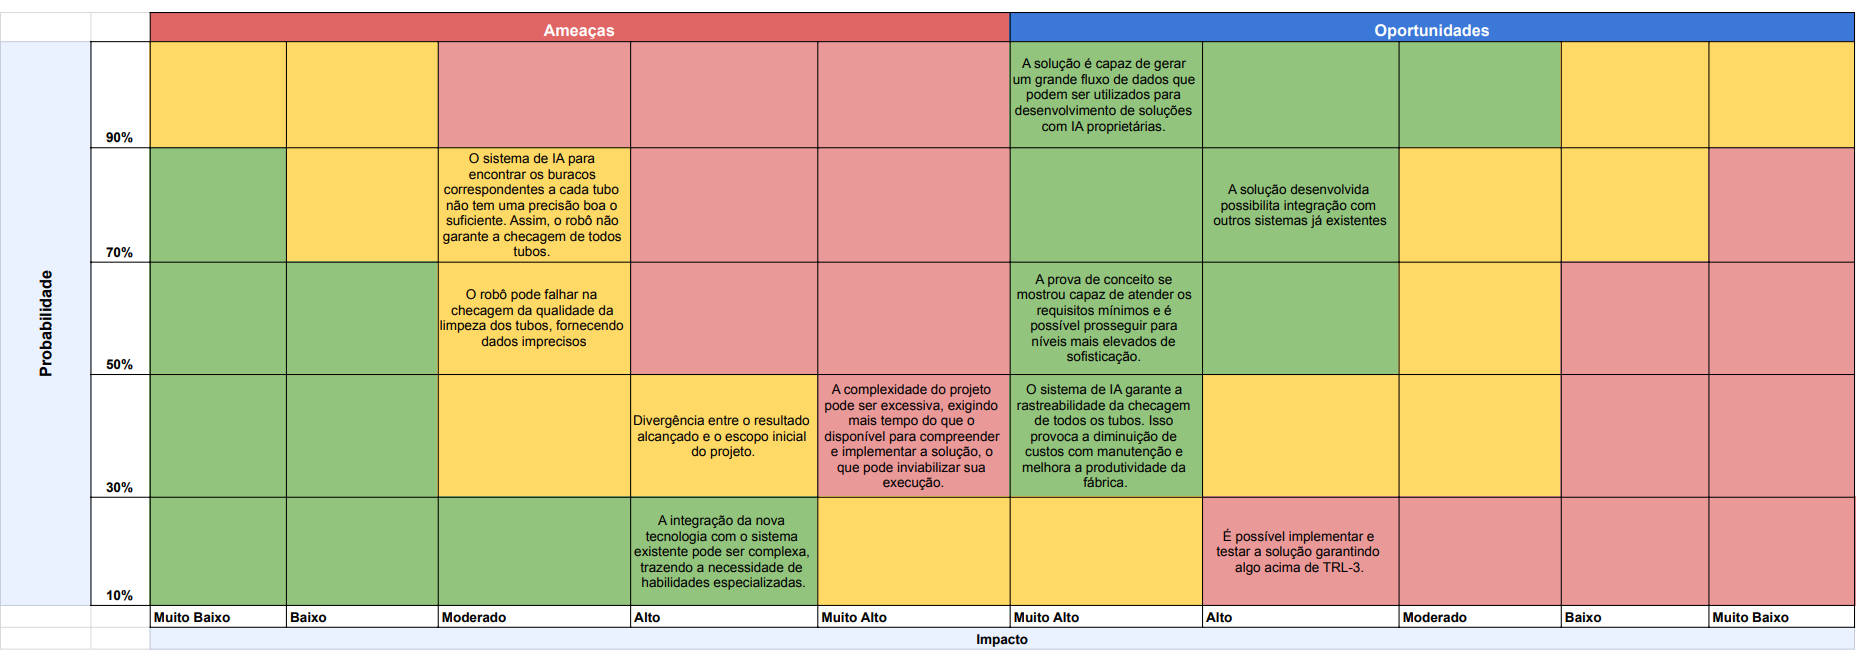
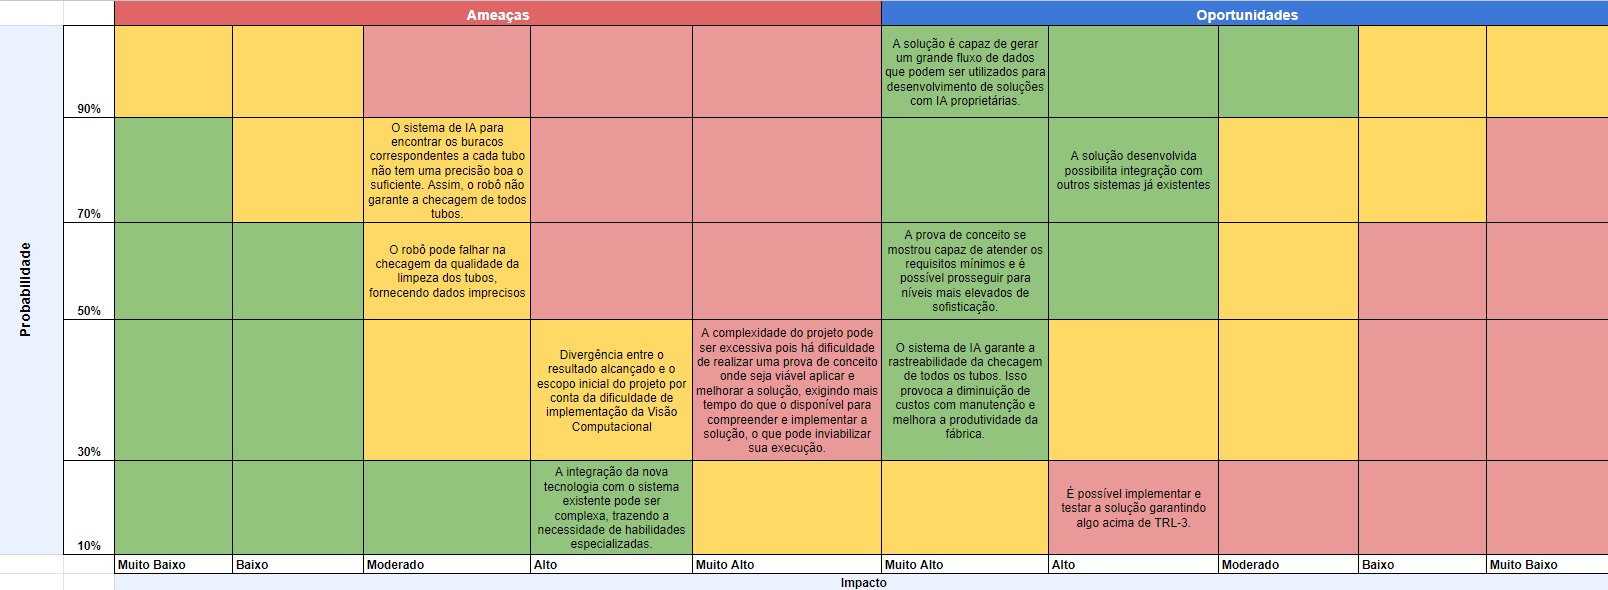
Alterações Matriz de Risco

Changed region(s): [[0.0, 0.0, 1.0, 1.0]]

diff --git a/docs/docs/sprints/Sprint 1/negocios/matriz.md b/docs/docs/sprints/Sprint 1/negocios/matriz.md
@@ -21,18 +21,19 @@ Fonte: Elaborado pelo grupo Cannabot
 Também, disponibiliza-se a transcrição dos textos inseridos na matriz:
 
 Ameaças:
-O sistema de IA para encontrar os buracos correspondentes a cada tubo não tem uma precisão boa o suficiente. Assim, o robô não garante a checagem de todos tubos. ( Probabilidade: Alta 70% x Impacto: Moderado)
-O robô pode falhar na checagem da qualidade da limpeza dos tubos, fornecendo dados imprecisos ( Probabilidade: Média 50% x Impacto: Médio)
-Divergência entre o resultado alcançado e o escopo inicial do projeto. ( Probabilidade: Baixa 30% x Impacto: Alto)
-A complexidade do projeto pode ser excessiva, exigindo mais tempo do que o disponível para compreender e implementar a solução, o que pode inviabilizar sua execução. ( Probabilidade: Baixa 30% x Impacto: Muito Alto)
-A integração da nova tecnologia com o sistema existente pode ser complexa, trazendo a necessidade de habilidades especializadas.( Probabilidade: Muito Baixa 10% x Impacto: Alto)
+- O sistema de IA para encontrar os buracos correspondentes a cada tubo não tem uma precisão boa o suficiente. Assim, o robô não garante a checagem de todos tubos. ( Probabilidade: Alta 70% x Impacto: Moderado)
+- O robô pode falhar na checagem da qualidade da limpeza dos tubos, fornecendo dados imprecisos ( Probabilidade: Média 50% x Impacto: Médio)
+- Divergência entre o resultado alcançado e o escopo inicial do projeto por conta da dificuldade de implementação da Visão Computacional. ( Probabilidade: Baixa 30% x Impacto: Alto)
+- A complexidade do projeto pode ser excessiva pois há dificuldade de realizar uma prova de conceito onde seja viável aplicar e melhorar a solução, exigindo mais tempo do que o disponível para compreender e implementar a solução, o que pode inviabilizar sua execução. ( Probabilidade: Baixa 30% x Impacto: Muito Alto)
+- A integração da nova tecnologia com o sistema existente pode ser complexa, trazendo a necessidade de habilidades especializadas.( Probabilidade: Muito Baixa 10% x Impacto: Alto)
+
 
 Riscos Reais:
-A solução é capaz de gerar um grande fluxo de dados que podem ser utilizados para desenvolvimento de soluções com IA proprietárias. ( Probabilidade: Muito Alta 90% x Impacto: Muito Alto)
-A solução desenvolvida possibilita integração com outros sistemas já existentes ( Probabilidade: Alta 70% x Impacto: Alto)
-A prova de conceito se mostrou capaz de atender os requisitos mínimos e é possível prosseguir para níveis mais elevados de sofisticação. (Probabilidade: Alta 50% x Impacto: Muito Alto) 
-O sistema de IA garante a rastreabilidade da checagem de todos os tubos. Isso provoca a diminuição de custos com manutenção e melhora a produtividade da fábrica. ( Probabilidade: Baixa 10% x Impacto: Muito Alto)
-É possível implementar e testar a solução garantindo algo acima de TRL-3. ( Probabilidade: Baixa 10% x Impacto: Alto)
+- A solução é capaz de gerar um grande fluxo de dados que podem ser utilizados para desenvolvimento de soluções com IA proprietárias. ( Probabilidade: Muito Alta 90% x Impacto: Muito Alto)
+- A solução desenvolvida possibilita integração com outros sistemas já existentes ( Probabilidade: Alta 70% x Impacto: Alto)
+- A prova de conceito se mostrou capaz de atender os requisitos mínimos e é possível prosseguir para níveis mais elevados de sofisticação. (Probabilidade: Alta 50% x Impacto: Muito Alto) 
+- O sistema de IA garante a rastreabilidade da checagem de todos os tubos. Isso provoca a diminuição de custos com manutenção e melhora a produtividade da fábrica. ( Probabilidade: Baixa 10% x Impacto: Muito Alto)
+- É possível implementar e testar a solução garantindo algo acima de TRL-3. ( Probabilidade: Baixa 10% x Impacto: Alto)
 
 ## Plano de ação em relação aos riscos 
 
@@ -48,14 +49,14 @@ Nesta secção será detalhado como é possível lidar com os riscos e respostas
 *Plano de Ação:* Para mitigar esse risco em implementações futuras é possível acoplar uma câmera que tenha uma resolução maior.
 *Resposta ao Risco:* Fazer uma checagem antes e depois do processo de limpeza. Caso o modelo não tenha uma boa resposta é necessário fazer a checagem de novo.
 
-##### Divergência entre o resultado alcançado e o escopo inicial do projeto
+##### Divergência entre o resultado alcançado e o escopo inicial do projeto por conta da dificuldade de implementação da Visão Computacional.
 
-*Plano de Ação:* Para mitigar essa ameaça, é essencial estabelecer uma comunicação clara com o cliente desde o início do projeto. Isso envolve definir e documentar o escopo do projeto e realizar revisões periódicas para garantir que o projeto esteja conforme o planejado, evitando conflitos e garantindo a satisfação do cliente.
+*Plano de Ação:* Para mitigar essa ameaça, é essencial estabelecer uma comunicação clara com o parceiro desde o início do projeto. Isso envolve definir e documentar o escopo do projeto e realizar revisões periódicas para garantir que o projeto esteja conforme o planejado, evitando conflitos e garantindo a satisfação do parceiro. Também, estudar formas de aplicar Visão Computacional de uma forma coerente com as dores do parceiro.
 *Resposta ao Risco:* Registrar todas as alterações no escopo, obter a aprovação do cliente e só então implementá-las.
 
-##### A complexidade do projeto pode ser excessiva, exigindo mais tempo do que o disponível para compreender e implementar a solução, o que pode inviabilizar sua execução.
+##### A complexidade do projeto pode ser excessiva pois há dificuldade de realizar uma prova de conceito onde seja viável aplicar e melhorar a solução, exigindo mais tempo do que o disponível para compreender e implementar a solução, o que pode inviabilizar sua execução.
 
-*Plano de Ação:* Ao utilizar o método Scrum, a equipe deve dividir o projeto em fases ou etapas menores e mais gerenciáveis, chamadas de sprints, o que facilita o desenvolvimento da solução de forma eficiente.
+*Plano de Ação:* Ao utilizar o método Scrum, a equipe deve dividir o projeto em fases ou etapas menores e mais gerenciáveis, chamadas de sprints, o que facilita o desenvolvimento da solução de forma eficiente, gerenciando melhor as dificuldades que serão enfrentadas durante as 10 semanas de projeto. 
 *Resposta ao Risco:* O Scrum Master deve acompanhar de perto o progresso do projeto e estar pronto para realocar recursos ou reavaliar prazos conforme necessário, a fim de lidar com a complexidade. Também, para garantir a qualidade e a viabilidade técnica do projeto, é essencial implementar processos de revisão de design e código.
 
 ##### A integração da nova tecnologia com o sistema existente pode ser complexa, trazendo a necessidade de habilidades especializadas.
